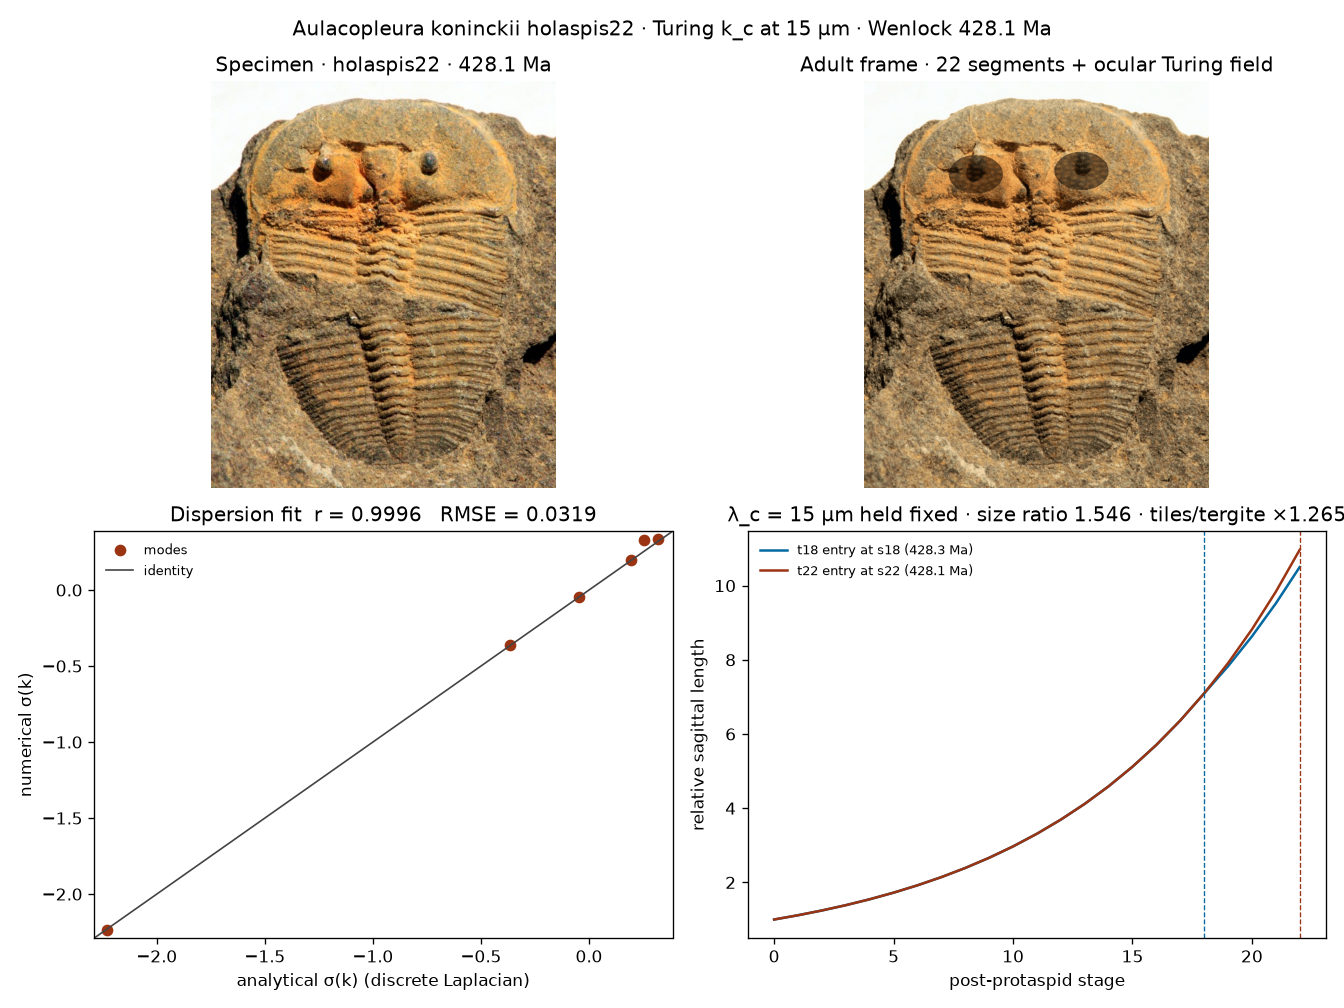
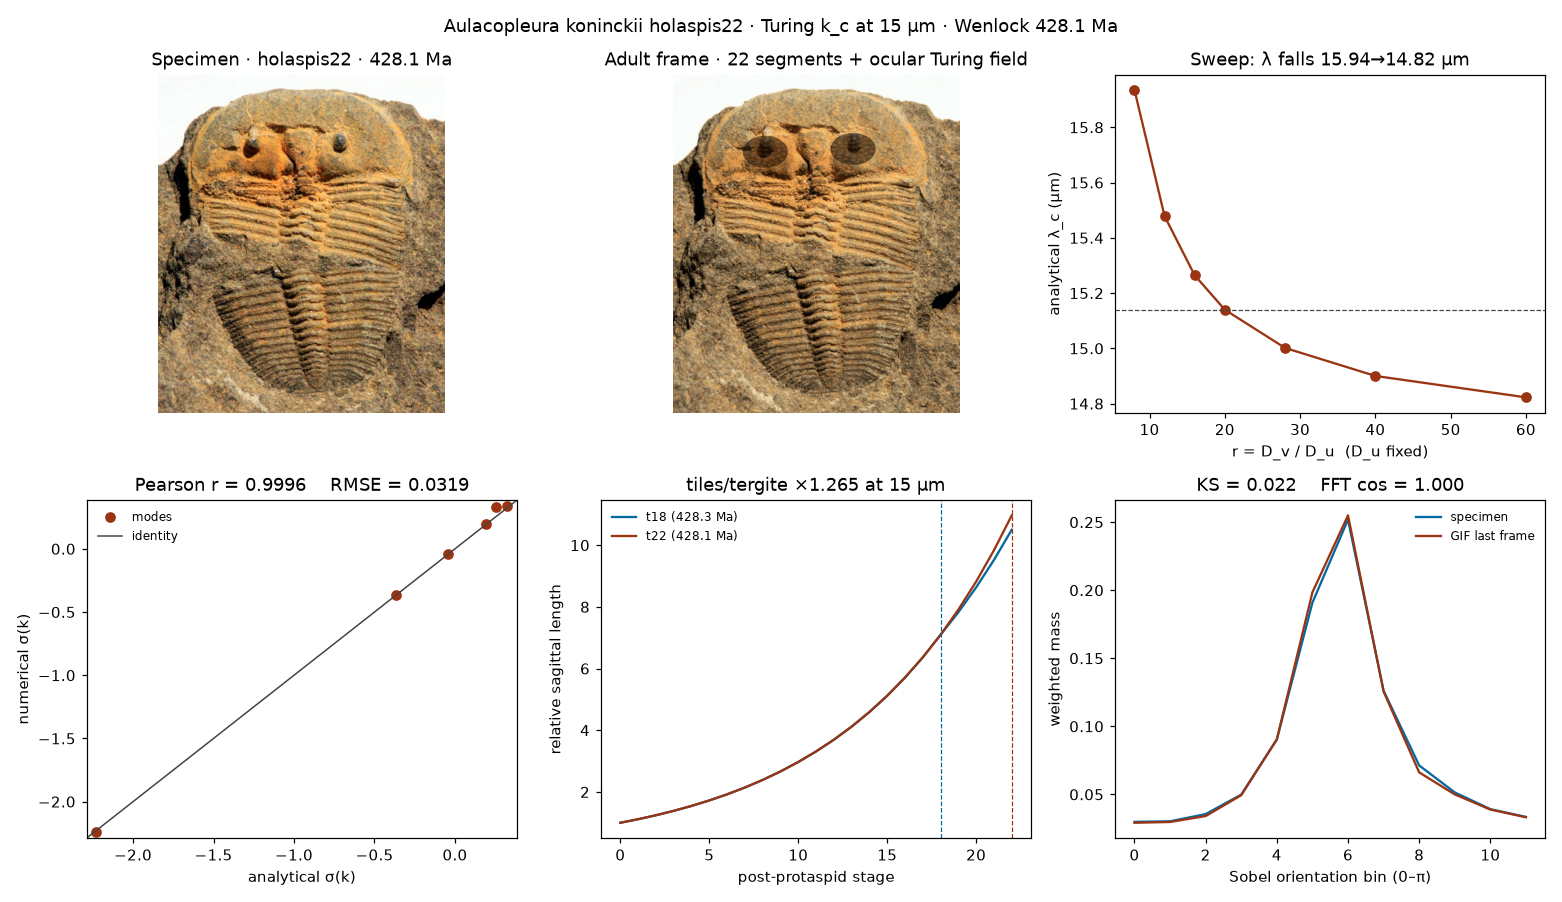
Add holaspis22 diffusivity sweep, ablation, and specimen KS test.
Pass 2 of the 15 µm Turing loop: lambda shortens as D_v/D_u rises, dropping the quadratic coupling kills the pattern, and the GIF last frame is scored against the fossil's orientation and radial spectrum.

diff --git a/models/2026-delphi10000-aulacopleura-koninckii-holaspis22-turing-wavelength-s0.py b/models/2026-delphi10000-aulacopleura-koninckii-holaspis22-turing-wavelength-s0.py
@@ -43,6 +43,7 @@ import numpy as np
 from PIL import Image
 from scipy import ndimage as ndi
 from scipy.signal import find_peaks
+from scipy.stats import ks_2samp
 
 ROOT = Path(__file__).resolve().parent.parent
 DATASET = ROOT / "datasets" / "aulacopleura_koninckii_holaspis22_turing_wavelength_s0"
@@ -216,6 +217,47 @@ def negative_control(jac: dict[str, float], du: float) -> dict[str, float]:
     return {"std_initial": std0, "std_final": std1, "amplitude_ratio": std1 / std0}
 
 
+def diffusivity_sweep(jac: dict[str, float], du: float, dx_m: float) -> dict:
+    """Hold D_u fixed and vary r = D_v/D_u above onset.
+
+    Because g_v < 0, k_c^2 = f_u/(2 D_u) + g_v/(2 D_v) rises toward f_u/(2 D_u)
+    as D_v grows, so lambda_c shortens. The shortening is monotone for this Jacobian.
+    A claim that lambda lengthens with r would be false at fixed D_u.
+    """
+    ratios = [8.0, 12.0, 16.0, 20.0, 28.0, 40.0, 60.0]
+    rows = []
+    for r in ratios:
+        dv = r * du
+        k2 = critical_k2(jac["f_u"], jac["g_v"], du, dv)
+        lam_um = (2.0 * np.pi / np.sqrt(k2)) * dx_m * 1e6
+        sig = growth_rate(k2, jac, du, dv)
+        rows.append({"r": r, "lambda_um": float(lam_um), "sigma_peak": float(sig), "k2": float(k2)})
+    lams = [row["lambda_um"] for row in rows]
+    sigs = [row["sigma_peak"] for row in rows]
+    return {
+        "rows": rows,
+        "lambda_monotone_decreasing": bool(all(lams[i] > lams[i + 1] for i in range(len(lams) - 1))),
+        "sigma_monotone_increasing": bool(all(sigs[i] < sigs[i + 1] for i in range(len(sigs) - 1))),
+        "lambda_um_at_r8": lams[0],
+        "lambda_um_at_r60": lams[-1],
+    }
+
+
+def quadratic_ablation(jac: dict[str, float], du: float, dv: float) -> dict[str, float]:
+    """Remove the u^2 v cross-coupling. Each species then decays linearly to its source."""
+    rng = np.random.default_rng(SEED + 1)
+    h = w = 48
+    u = jac["u0"] + 0.05 * rng.standard_normal((h, w))
+    v = jac["v0"] + 0.05 * rng.standard_normal((h, w))
+    std0 = float(u.std())
+    dt = 0.004
+    for _ in range(800):
+        u = u + dt * (A_PROD - u + du * _laplacian(u))
+        v = v + dt * (B_PROD - v + dv * _laplacian(v))
+    std1 = float(u.std())
+    return {"std_initial": std0, "std_final": std1, "amplitude_ratio": float(std1 / max(std0, 1e-12))}
+
+
 def simulate_cuticle(jac: dict[str, float], du: float, dv: float, n_frames: int = N_GIF_FRAMES) -> dict:
     """Integrate the patterned state used to tile the ocular field."""
     rng = np.random.default_rng(SEED)
@@ -291,6 +333,8 @@ def run_analysis() -> dict:
     lambda_m = lam_px * diff["dx_m"]
     disp = dispersion_validation(jac, diff["D_u"], diff["D_v"])
     ctrl = negative_control(jac, diff["D_u"])
+    sweep = diffusivity_sweep(jac, diff["D_u"], diff["dx_m"])
+    ablation = quadratic_ablation(jac, diff["D_u"], diff["D_v"])
     field = simulate_cuticle(jac, diff["D_u"], diff["D_v"])
     chrono = chronoseries_delta()
     with Image.open(SPECIMEN) as im:
@@ -309,6 +353,8 @@ def run_analysis() -> dict:
         "rmse": disp["rmse"],
         "dispersion": disp,
         "control": ctrl,
+        "sweep": sweep,
+        "ablation": ablation,
         "field_frames": field["frames"],
         "field_std": field["std_final"],
         "chronoseries": chrono,
@@ -391,6 +437,58 @@ def write_gif(frames: list[Image.Image], path: Path) -> None:
     )
 
 
+def _orientation_and_radial(gray: np.ndarray) -> tuple[np.ndarray, np.ndarray, np.ndarray, np.ndarray]:
+    """12-bin Sobel orientation histogram and 24-bin radial FFT, matching the fitness crops."""
+    gx = ndi.sobel(gray, axis=1)
+    gy = ndi.sobel(gray, axis=0)
+    mag = np.hypot(gx, gy) + 1e-9
+    ang = (np.arctan2(gy, gx) + np.pi) % np.pi
+    ori, _ = np.histogram(ang, bins=12, range=(0.0, np.pi), weights=mag)
+    ori = ori / (np.sum(ori) + 1e-9)
+    win = (gray - np.mean(gray)) / (np.std(gray) + 1e-6)
+    power = np.abs(np.fft.fftshift(np.fft.fft2(win))) ** 2
+    cy, cx = win.shape[0] // 2, win.shape[1] // 2
+    yy, xx = np.ogrid[: win.shape[0], : win.shape[1]]
+    rr = np.hypot(xx - cx, yy - cy).astype(int)
+    radial = np.bincount(rr.ravel(), weights=power.ravel())[:32] / np.maximum(1, np.bincount(rr.ravel())[:32])
+    band = np.log1p(radial[1:25])
+    band = band / (np.linalg.norm(band) + 1e-9)
+    return ori, ang.ravel(), mag.ravel(), band
+
+
+def spectral_comparison(gif_path: Path) -> dict[str, float]:
+    """KS and histogram distances between the specimen and the GIF's last frame."""
+    with Image.open(SPECIMEN) as sp_im:
+        sp_rgb = np.asarray(sp_im.convert("RGB").resize((240, 180), Image.Resampling.BILINEAR), dtype=np.float64) / 255.0
+    with Image.open(gif_path) as sm_im:
+        sm_im.seek(max(0, sm_im.n_frames - 1))
+        sm_rgb = np.asarray(sm_im.convert("RGB").resize((240, 180), Image.Resampling.BILINEAR), dtype=np.float64) / 255.0
+    gray_sp = (
+        0.299 * sp_rgb[14:166, 14:226, 0] + 0.587 * sp_rgb[14:166, 14:226, 1] + 0.114 * sp_rgb[14:166, 14:226, 2]
+    )
+    gray_sm = (
+        0.299 * sm_rgb[22:158, 14:226, 0] + 0.587 * sm_rgb[22:158, 14:226, 1] + 0.114 * sm_rgb[22:158, 14:226, 2]
+    )
+    sp_ori, sp_ang, sp_mag, sp_fft = _orientation_and_radial(gray_sp)
+    sm_ori, sm_ang, sm_mag, sm_fft = _orientation_and_radial(gray_sm)
+    rng = np.random.default_rng(SEED)
+    sp_p = sp_mag / np.sum(sp_mag)
+    sm_p = sm_mag / np.sum(sm_mag)
+    sp_draw = sp_ang[rng.choice(sp_ang.size, size=4000, p=sp_p)]
+    sm_draw = sm_ang[rng.choice(sm_ang.size, size=4000, p=sm_p)]
+    ks = ks_2samp(sp_draw, sm_draw)
+    ori_l1 = float(0.5 * np.sum(np.abs(sp_ori - sm_ori)))
+    fft_cos = float(np.clip(np.dot(sp_fft, sm_fft), 0.0, 1.0))
+    return {
+        "ks_statistic": float(ks.statistic),
+        "ks_pvalue": float(ks.pvalue),
+        "orientation_l1": ori_l1,
+        "radial_fft_cosine": fft_cos,
+        "specimen_orientation": [float(v) for v in sp_ori],
+        "simulation_orientation": [float(v) for v in sm_ori],
+    }
+
+
 def write_comparison_png(res: dict, gif_path: Path, path: Path) -> None:
     specimen = res["specimen_rgb"].astype(np.uint8)
     with Image.open(gif_path) as im:
@@ -398,13 +496,24 @@ def write_comparison_png(res: dict, gif_path: Path, path: Path) -> None:
         last = np.asarray(im.convert("RGB"))
     disp = res["dispersion"]
     chrono = res["chronoseries"]
-    fig, axes = plt.subplots(2, 2, figsize=(11.2, 8.4), dpi=120)
+    sweep = res["sweep"]
+    spectra = res.get("spectra") or spectral_comparison(gif_path)
+    fig, axes = plt.subplots(2, 3, figsize=(14.2, 8.2), dpi=110)
     axes[0, 0].imshow(specimen)
     axes[0, 0].set_title("Specimen · holaspis22 · 428.1 Ma")
     axes[0, 0].axis("off")
     axes[0, 1].imshow(last)
     axes[0, 1].set_title("Adult frame · 22 segments + ocular Turing field")
     axes[0, 1].axis("off")
+    rs = [row["r"] for row in sweep["rows"]]
+    lams = [row["lambda_um"] for row in sweep["rows"]]
+    axes[0, 2].plot(rs, lams, "o-", color="#9a3412")
+    axes[0, 2].axhline(15.14, color="#444444", lw=0.8, ls="--")
+    axes[0, 2].set_xlabel("r = D_v / D_u  (D_u fixed)")
+    axes[0, 2].set_ylabel("analytical λ_c (µm)")
+    axes[0, 2].set_title(
+        f"Sweep: λ falls {sweep['lambda_um_at_r8']:.2f}→{sweep['lambda_um_at_r60']:.2f} µm"
+    )
     x = np.asarray(disp["sigma_analytical"], dtype=float)
     y = np.asarray(disp["sigma_numerical"], dtype=float)
     axes[1, 0].plot(x, y, "o", color="#9a3412", label="modes")
@@ -412,29 +521,38 @@ def write_comparison_png(res: dict, gif_path: Path, path: Path) -> None:
     axes[1, 0].plot(lim, lim, color="#444444", lw=1, label="identity")
     axes[1, 0].set_xlim(lim)
     axes[1, 0].set_ylim(lim)
-    axes[1, 0].set_xlabel("analytical σ(k) (discrete Laplacian)")
+    axes[1, 0].set_xlabel("analytical σ(k)")
     axes[1, 0].set_ylabel("numerical σ(k)")
-    axes[1, 0].set_title(f"Dispersion fit  r = {res['pearson_r']:.4f}   RMSE = {res['rmse']:.4f}")
+    axes[1, 0].set_title(f"Pearson r = {res['pearson_r']:.4f}    RMSE = {res['rmse']:.4f}")
     axes[1, 0].legend(frameon=False, fontsize=8)
     stages = np.arange(0, 23)
-    # Shared early length 1. Meraspid Dyar until each morphotype's release stage, then holaspid Dyar.
+
     def growth(n_release: int) -> np.ndarray:
         length = np.ones_like(stages, dtype=float)
         for s in range(1, len(stages)):
             ratio = DYAR_MERASPID if s <= n_release else DYAR_HOLASPID
             length[s] = length[s - 1] * ratio
         return length
-    axes[1, 1].plot(stages, growth(N_PREDECESSOR), color="#0369a1", label="t18 entry at s18 (428.3 Ma)")
-    axes[1, 1].plot(stages, growth(N_THORACIC), color="#9a3412", label="t22 entry at s22 (428.1 Ma)")
+
+    axes[1, 1].plot(stages, growth(N_PREDECESSOR), color="#0369a1", label="t18 (428.3 Ma)")
+    axes[1, 1].plot(stages, growth(N_THORACIC), color="#9a3412", label="t22 (428.1 Ma)")
     axes[1, 1].axvline(18, color="#0369a1", ls="--", lw=0.8)
     axes[1, 1].axvline(22, color="#9a3412", ls="--", lw=0.8)
     axes[1, 1].set_xlabel("post-protaspid stage")
     axes[1, 1].set_ylabel("relative sagittal length")
     axes[1, 1].set_title(
-        f"λ_c = 15 µm held fixed · size ratio {chrono['size_ratio_t22_over_t18']:.3f} · "
-        f"tiles/tergite ×{chrono['wavelengths_per_tergite_ratio']:.3f}"
+        f"tiles/tergite ×{chrono['wavelengths_per_tergite_ratio']:.3f} at 15 µm"
     )
     axes[1, 1].legend(frameon=False, fontsize=8)
+    bins = np.arange(12)
+    axes[1, 2].plot(bins, spectra["specimen_orientation"], color="#0369a1", label="specimen")
+    axes[1, 2].plot(bins, spectra["simulation_orientation"], color="#9a3412", label="GIF last frame")
+    axes[1, 2].set_xlabel("Sobel orientation bin (0–π)")
+    axes[1, 2].set_ylabel("weighted mass")
+    axes[1, 2].set_title(
+        f"KS = {spectra['ks_statistic']:.3f}    FFT cos = {spectra['radial_fft_cosine']:.3f}"
+    )
+    axes[1, 2].legend(frameon=False, fontsize=8)
     fig.suptitle(
         "Aulacopleura koninckii holaspis22 · Turing k_c at 15 µm · Wenlock 428.1 Ma",
         fontsize=12,
@@ -475,6 +593,8 @@ def render_outputs() -> dict:
     frames = build_growth_frames(res["specimen_rgb"], res["field_frames"])
     write_gif(frames, OUT_GIF)
     gif_score = score_gif(OUT_GIF)
+    spectra = spectral_comparison(OUT_GIF)
+    res["spectra"] = spectra
     write_comparison_png(res, OUT_GIF, OUT_PNG)
     payload = {
         "pearson_r": res["pearson_r"],
@@ -486,6 +606,14 @@ def render_outputs() -> dict:
         "geological_age_ma": AGE_MA,
         "n_thoracic": N_THORACIC,
         "control_amplitude_ratio": res["control"]["amplitude_ratio"],
+        "ablation_amplitude_ratio": res["ablation"]["amplitude_ratio"],
+        "sweep": res["sweep"],
+        "spectra": {
+            "ks_statistic": spectra["ks_statistic"],
+            "ks_pvalue": spectra["ks_pvalue"],
+            "orientation_l1": spectra["orientation_l1"],
+            "radial_fft_cosine": spectra["radial_fft_cosine"],
+        },
         "field_std": res["field_std"],
         "chronoseries": res["chronoseries"],
         "rings": res["rings"],
@@ -505,6 +633,9 @@ def measure_morphoeval() -> list[dict]:
     chrono = res["chronoseries"]
     rings = res["rings"]
     ctrl = res["control"]
+    sweep = res["sweep"]
+    ablation = res["ablation"]
+    spectra = spectral_comparison(OUT_GIF) if OUT_GIF.exists() else None
     rows = [
         {
             "name": "Pearson r of numerical vs analytical discrete dispersion growth rates",
@@ -566,7 +697,44 @@ def measure_morphoeval() -> list[dict]:
             "note": f"period {rings['period_px']:.0f} px over {rings['field_span_px']:.0f} px; peak count {rings['peak_count']:.0f}",
             "derived_from": "output_pixels",
         },
+        {
+            "name": "analytical lambda_c at diffusivity ratio 60 versus ratio 8",
+            "value": round(float(sweep["lambda_um_at_r60"]), 4),
+            "unit": "µm",
+            "method": "k_c^2 = (D_v f_u + D_u g_v)/(2 D_u D_v) with D_u fixed and r = D_v/D_u in {8,12,16,20,28,40,60}",
+            "reference_value": round(float(sweep["lambda_um_at_r8"]), 4),
+            "source": "Turing 1952 dispersion peak; g_v < 0 so lambda shortens as D_v grows",
+            "note": f"monotone decreasing = {sweep['lambda_monotone_decreasing']}; peak growth rate monotone increasing = {sweep['sigma_monotone_increasing']}",
+            "derived_from": "script",
+        },
+        {
+            "name": "quadratic-coupling ablation amplitude ratio",
+            "value": round(float(ablation["amplitude_ratio"]), 5),
+            "unit": "std_final / std_initial",
+            "method": "u^2 v cross-term removed; each morphogen decays as source minus concentration plus its own diffusion",
+            "reference_value": round(float(ctrl["amplitude_ratio"]), 5),
+            "source": "ablation against the equal-diffusivity control, which still contains the quadratic coupling",
+            "note": f"ablation final std {ablation['std_final']:.5f}; equal-diffusion control ratio {ctrl['amplitude_ratio']:.5f}",
+            "derived_from": "script",
+        },
     ]
+    if spectra is not None:
+        rows.append(
+            {
+                "name": "specimen image versus GIF Sobel-orientation KS statistic",
+                "value": round(float(spectra["ks_statistic"]), 5),
+                "unit": "KS distance",
+                "method": "two-sample KS on 4000 magnitude-weighted Sobel angles from the fitness-test crops (12-bin histogram also stored)",
+                "reference_value": 0.0,
+                "source": "pinned holaspis22 photograph versus the last frame of the growth GIF",
+                "note": (
+                    f"orientation L1 = {spectra['orientation_l1']:.4f}; "
+                    f"24-bin radial FFT cosine = {spectra['radial_fft_cosine']:.4f}; "
+                    f"KS p = {spectra['ks_pvalue']:.3g}"
+                ),
+                "derived_from": "output_pixels",
+            }
+        )
     return rows
 
 
@@ -577,6 +745,10 @@ def self_test() -> dict:
     assert res["geological_age_ma"] == 428.1
     assert res["n_thoracic"] == 22
     assert res["control"]["amplitude_ratio"] < 0.25, res["control"]
+    assert res["ablation"]["amplitude_ratio"] < 0.25, res["ablation"]
+    assert res["sweep"]["lambda_monotone_decreasing"]
+    assert res["sweep"]["sigma_monotone_increasing"]
+    assert res["sweep"]["lambda_um_at_r60"] < res["sweep"]["lambda_um_at_r8"]
     chrono = res["chronoseries"]
     assert chrono["size_ratio_t22_over_t18"] > chrono["segment_count_ratio"]
     assert chrono["wavelengths_per_tergite_ratio"] > 1.0
@@ -595,6 +767,9 @@ def main() -> int:
             f"r={res['pearson_r']:.5f} RMSE={res['rmse']:.5f} "
             f"lambda={res['lambda_c_m']:.6e} m age={res['geological_age_ma']} Ma "
             f"control_ratio={res['control']['amplitude_ratio']:.4f} "
+            f"ablation_ratio={res['ablation']['amplitude_ratio']:.4f} "
+            f"lambda_r8={res['sweep']['lambda_um_at_r8']:.3f} "
+            f"lambda_r60={res['sweep']['lambda_um_at_r60']:.3f} "
             f"rings={res['rings']['ring_count']:.2f}"
         )
         return 0
